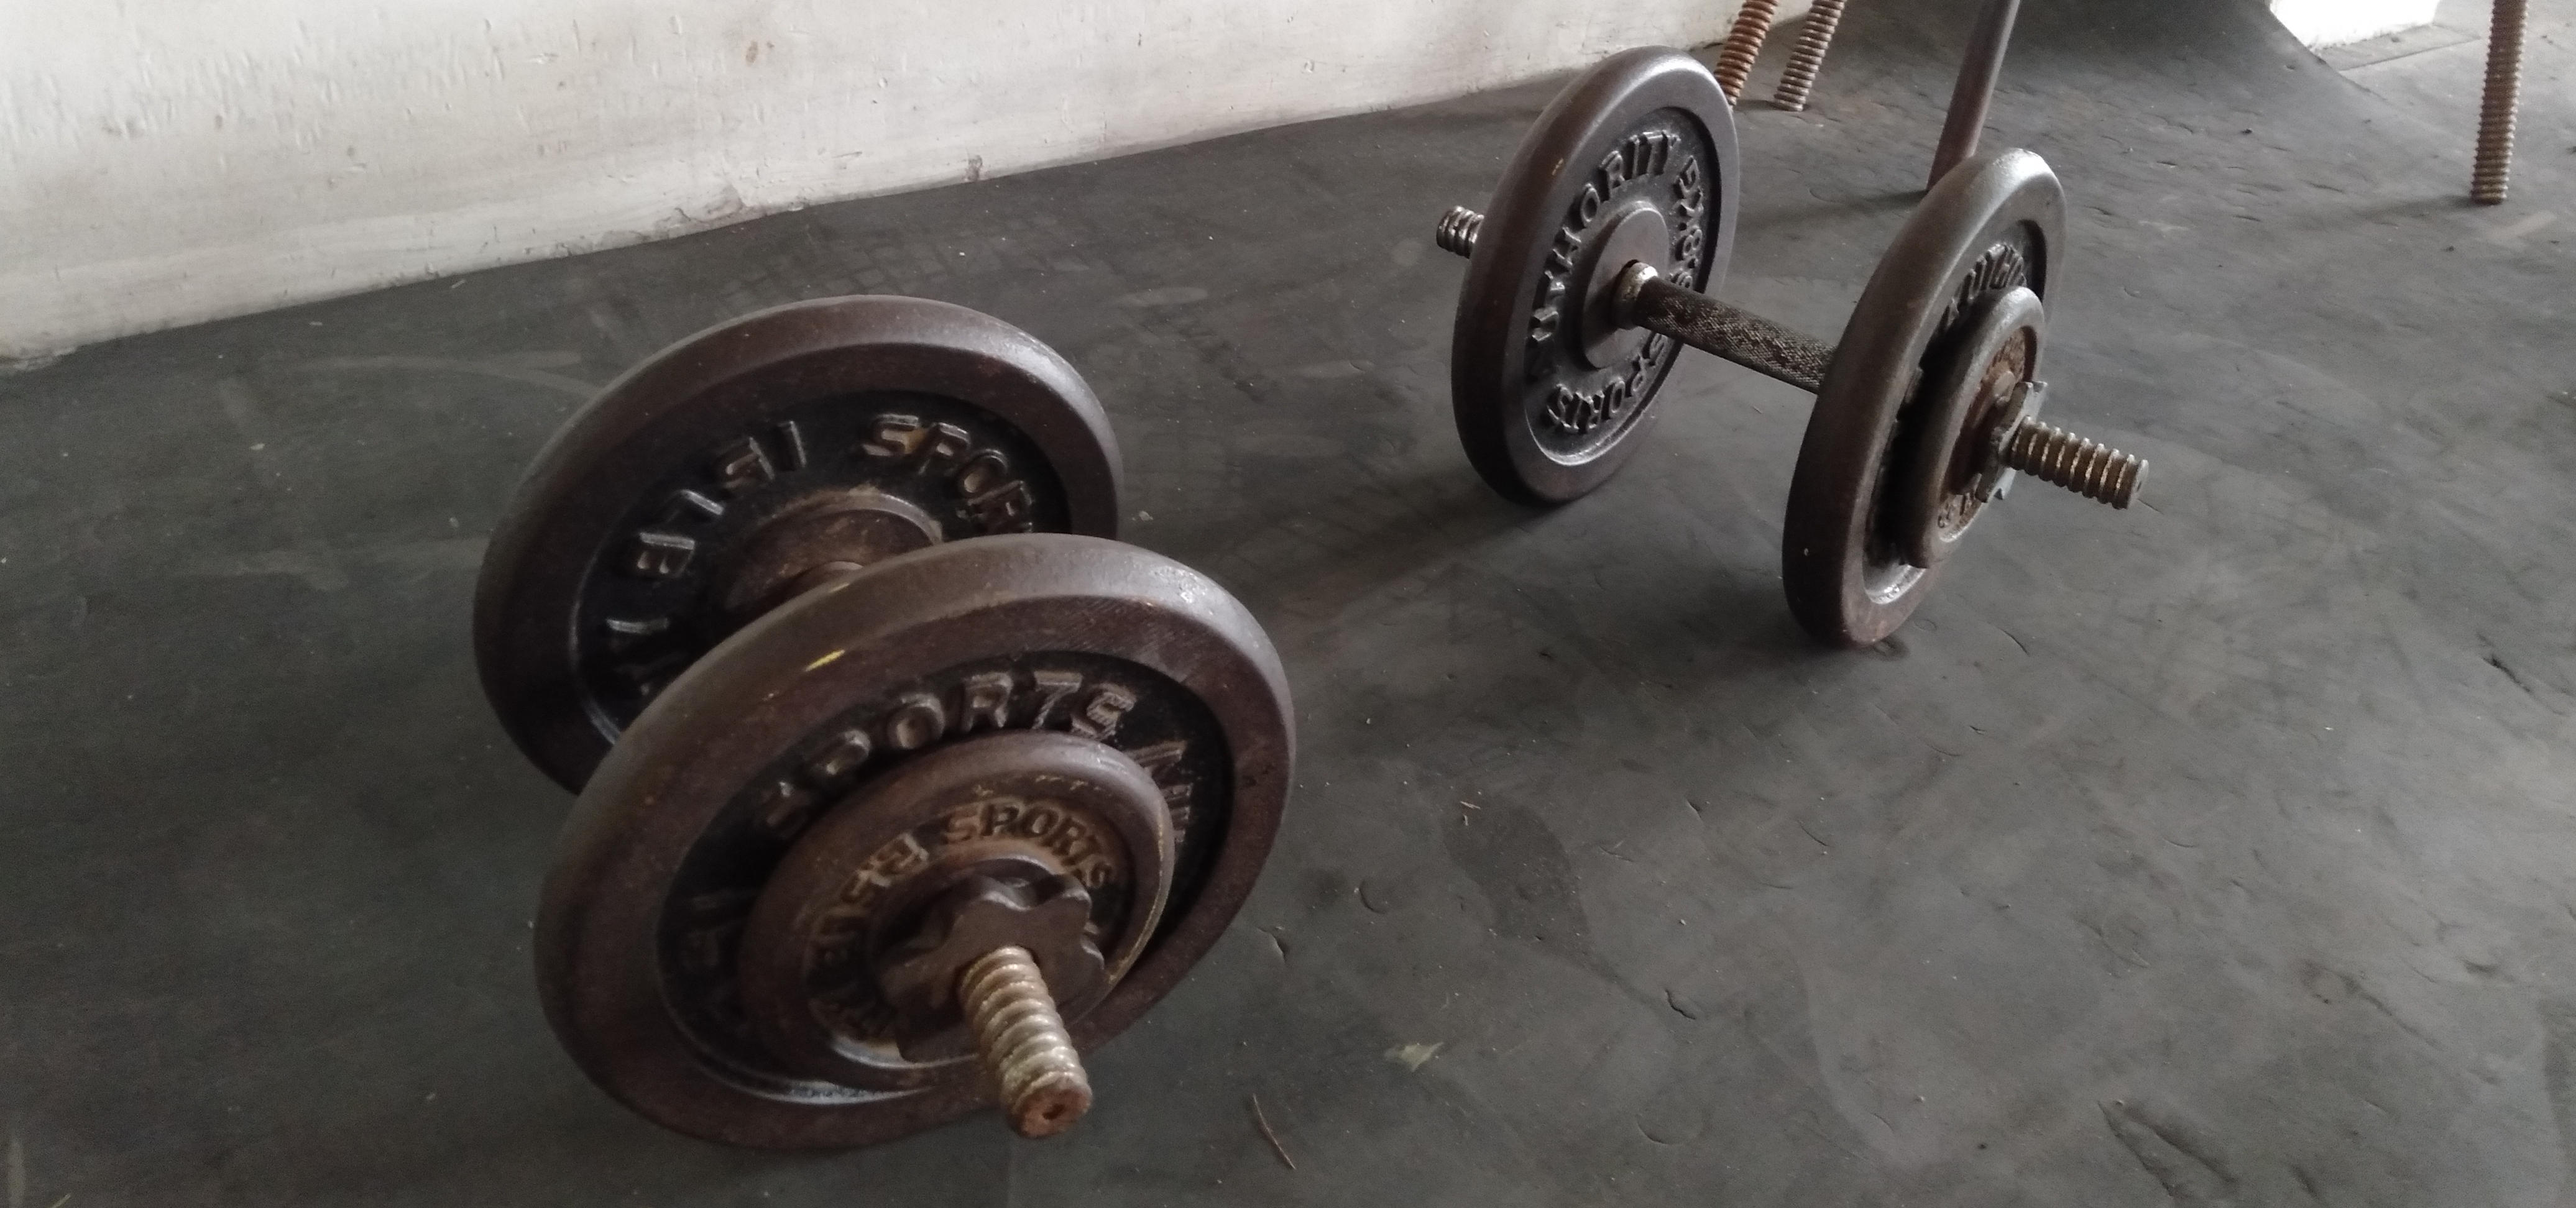
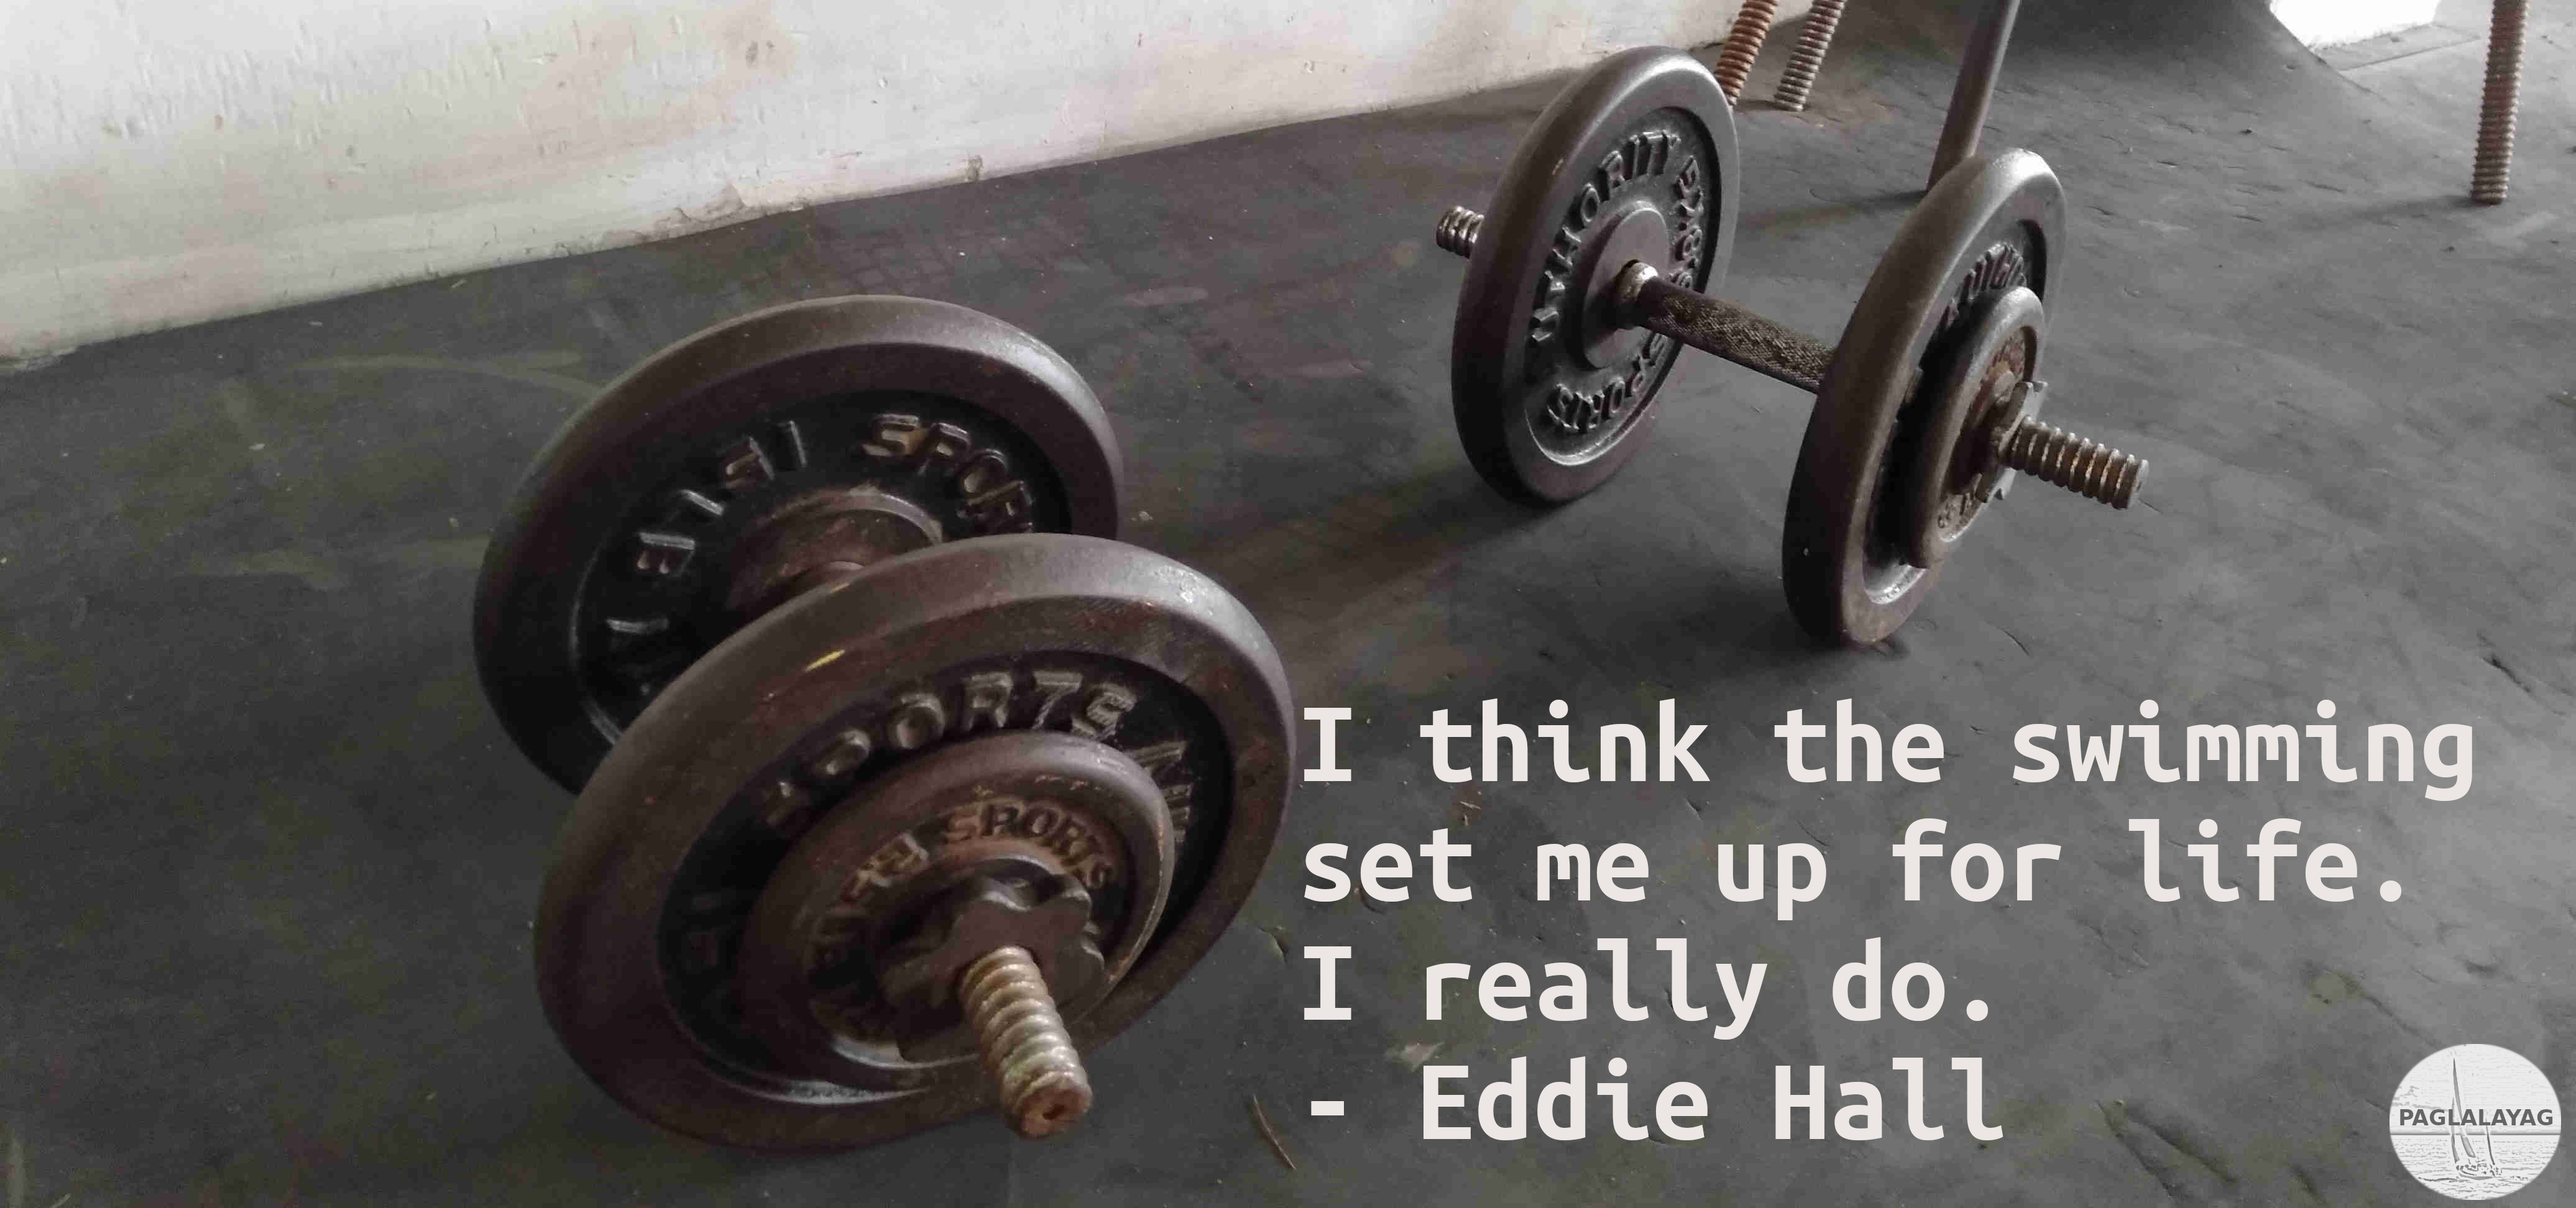
add dumbbells article

diff --git a/latest.html b/latest.html
@@ -3,6 +3,6 @@ layout: page
 title: Latest episode
 sitemap: false
 permalink: /latest/
-redirect_to: /2021/07/25/planetary-reset.html
+redirect_to: /2021/08/19/reinventing-the-dumbbell.html
 no-cache: true
 ---

diff --git a/_posts/2021-08-19-reinventing-the-dumbbell.md b/_posts/2021-08-19-reinventing-the-dumbbell.md
@@ -1,0 +1,99 @@
+---
+title: Reinventing the Dumbbell
+layout: post
+categories:
+hero_image: /assets/img/dumbbells.jpg
+image: /assets/img/dumbbells-og.jpg
+description: "I think the swimming set me up for life"
+---
+
+“I think the swimming set me up for life, I really do. I think it gave me the tools, it gave me the lung capacity, it gave me the heart function, but most of all it taught me discipline because in strongman there are no coaches, there’s no one telling what to do, what to eat.” – [Eddie Hall](https://themalestrom.com/interviews/worlds-strongest-man-eddie-hall/)
+
+
+# PAGLALAYAG
+
+## Preamble
+
+Last month, our country crossed a new athletic milestone with the [Olympic gold performance of Ms. Hidilyn Diaz](https://www.youtube.com/watch?v=LaqPVfpfxf4) in the [clean and jerk](https://www.jtsstrength.com/beginners-guide-clean-jerk/).  I was less than 1 month into learning how to lift weights. Some days I was cursing my new routine when I think about my own goals to achieve. Ms Diaz is yet another example of [what happens when Filipinos set their minds to their goals](https://www.8list.ph/filipina-athletes/) and pursue them relentlessly.  
+But for me, just taking on the dumbbells for the first time is a whole new challenge, technique and discipline come first and there will always be more weight to add.
+
+This week has just presented to us so many unique challenges – our very own dumbbells, that we face individually, as a family, as a nation. There are these day to day concerns such as working for the bread we eat, paying those never-ending bills, asking whether our decisions were all worth it, waiting for the ones we love, standing by your commitment, and all of those in your marketing list. Yet have we ever pondered if these little weights – these dumbbells so to speak, can be changed, reprocessed, re-invented?
+
+I hope some of these resources will also help you in re-inventing the dumbbells of your life. 
+
+Tuloy-tuloy lang ang Paglalayag!
+
+[Mic](https://www.linkedin.com/in/michael-carlos-3008ab31) and [Al](https://www.sunetrike.com/team/al-gray)
+
+# Health 
+
+## How “Neurocognitive Efficiency” Increases Peak Performance
+
+Steph Curry was recently offered probably the largest payday at staggering $215 Million in 4 years of playing, a historic feat for an athlete considered by many as the greatest shooter in basketball court. 
+But then how did it come to this. He has a less than ideal body built for the game, standing at 6’3” in a sport which is dominated by really huge and high flying men. 
+Here is a behind the scenes look at the training technologies that Steph uses to keep his game (and brain) sharper than the pack.  With results like this, we will probably see more of these training trends in the future.
+
+['I want to practice to the point where it's almost uncomfortable how fast you shoot, so that in the game things kind of slow down'](https://nymag.com/scienceofus/2016/06/steph-curry-perception-performance.html)
+
+
+## Exercise can reduce depression
+
+Feelings of depression can come from many sources. Science continues to confirm the old advice that you CAN [lift the dark cloud of depression through movement and exercise](https://www.nationalelfservice.net/treatment/exercise/exercise-depressive-symptoms/).  It's easy to get caught in the popular belief that activities like body building, strength conditioning & endurance training require Spartan-like punishment to your body and soul.  But given the health benefits, the promise of a [positive mindset and getting on the right track](https://www.huffpost.com/entry/phrase-think-about-exercise_l_60e59fe3e4b08ebff5e4b9db) is sure to be provide equal if not greater rewards than a six-pack will deliver, to our increasingly digital world and relationships. 
+
+But business is business and the modern fitness industry often harnesses these desires for a photographic body.  This often excludes people (especially females) [who don't fall within the 'ideal' category](https://theeverygirl.com/editor-joining-gym-experience/). It helps to be with the right company who inspire each other to do better in our goals.
+
+## Ice Cream Man
+
+I love ice cream – whole year round. With have a wide array of brands to choose from given the availability of the ingredients and our love for something cold and sweet. 
+Here is the thing, studies show that the the more a food is processed and modified from its natural form, the more it sticks around as added pounds (even as we continue our routine of exercise). Imagine having a sedentary lifestyle yet you gain more and crave more when you trade an apple for apple juice. 
+
+[How Processed foods contribute to weight gain](https://appforhealth.com/2019/05/ultra-processed-foods-lead-to-weight-gain-according-to-a-new-landmark-study/)
+
+## Cardio Genius
+
+If you were to choose, weightlifting or running or aerobics? If  you were to choose how to grow your brain, weightlifting or running or aerobics? Here is a good study on showing what is the impact to the growth of your brain - those exercise that you love to do. 
+
+[Exercise Makes You Grow New Brain Cells—But Only The Right Kind Of Exercise](http://www.fastcoexist.com/3056872/exercise-makes-you-grow-new-brain-cells-but-only-the-right-kind-of-exercise)
+
+
+# WEALTH
+
+## Take This Job And …
+
+We are a sucker so it seems when it comes to work. Overwork for us seems to trap us into this illusion that the more we take on, the faster our promotion or pay increase will happen. Now with these work from home arrangements, will high intensity workplaces still persist? If so, what are some ways to balance them with the other demands in life?   
+
+[Managing the High-Intensity Workplace](https://hbr.org/2016/06/managing-the-high-intensity-workplace)
+
+## Put This On the List
+Do you practice having a to-do list? Does it help you more get that sense of accomplishment? Or does it help you actually accomplish your tasks, duties, responsibilities? Here is a psychologist’s take on such lists and its impact on actual productivity vs that feeling of success. 
+
+[The Science of To-Do Lists: Psychology Can Make You More Productive](http://bigthink.com/videos/charles-duhigg-on-the-science-of-to-do-lists)
+
+## The Focus Group
+Have you ever watched a movie, or even a cartoon, present a room full of serious and engaged workers, all typing at the same time, apparently programmed to have that deadly focus on their work? It seems that this holds true as the article presented as this kind of work place behavior is contagious – and could help us to be truly productive.
+
+[How To Concentrate Automatically Without Even Trying](http://www.spring.org.uk/2016/06/how-to-concentrate-automatically.php)
+
+# WELLNESS
+
+## Seven Year Ditch
+“I am also just a girl, standing in front of a boy, asking him to love her.” 
+– Anna Scott played by Julia Roberts in Notting Hill
+While we get swooned by these love lines, get inspired by more poems and books about love, is it really that easy – to act, to choose and to understand that love is a verb and not a noun. Read on this research and find out more about these secrets on making relationships last.
+
+[How To Make A Relationship Last: 5 Secrets Backed By Research](http://www.bakadesuyo.com/2016/06/how-to-make-a-relationship-last/)
+
+## Play to Your Strengths
+
+Pareto Principle or the 80-20 rule gives us an insight to focus on those 20% that gives us the best results in order for us to achieve more. While each and everyone have their set of weaknesses, it is most likely that paying less attention to these and rather focusing on those strengths – maybe only at 20% - would yield better results in our path to self-development. Enjoy reading.
+
+[A Self-Improvement Secret: Work on Strengths](http://www.scientificamerican.com/article/a-self-improvement-secret-work-on-strengths/)
+
+
+
+=======================================
+
+Please forward this issue of Paglalayag to a friend who might also enjoy the journey.
+
+If this email was shared to you, and you think you might like to hear more, you can
+ [subscribe here](https://ck.paglalayag.net/)
